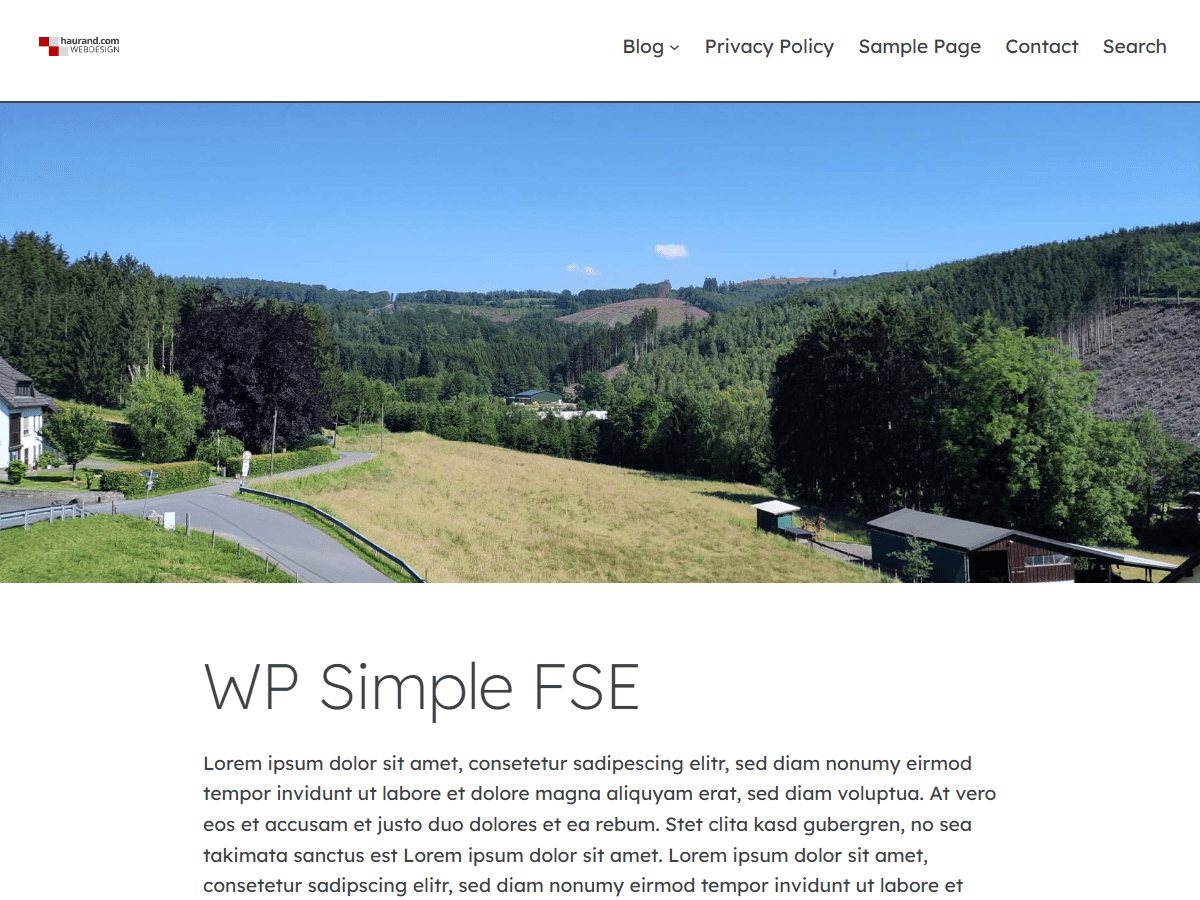
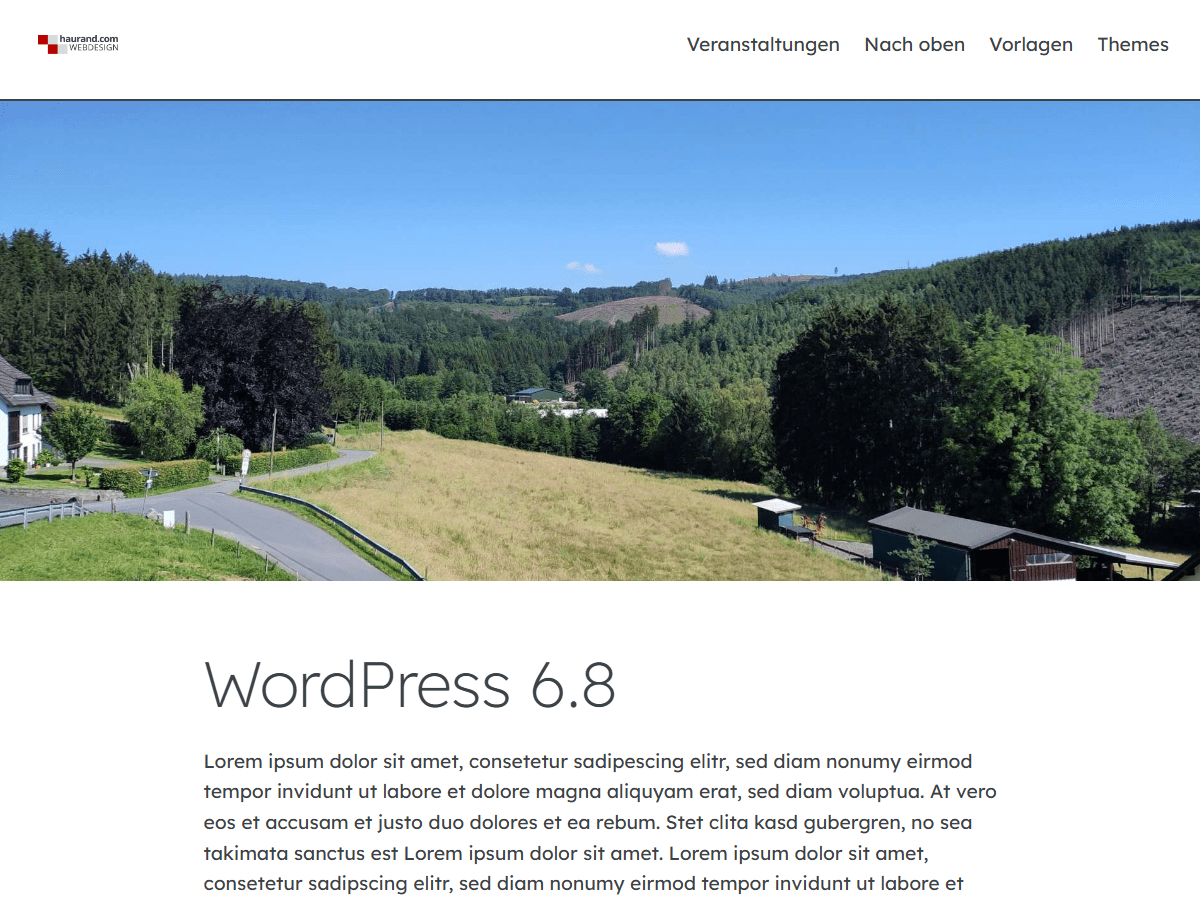
new patterns, added style black, delete old patterns

diff --git a/wp-simple-fse/parts/footer.html b/wp-simple-fse/parts/footer.html
@@ -1,28 +1,28 @@
 <!-- wp:group {"style":{"spacing":{"padding":{"top":"var:preset|spacing|30","bottom":"var:preset|spacing|20"}},"border":{"top":{"width":"0px","style":"none"},"right":[],"bottom":{"width":"0px","style":"none"},"left":[]}},"backgroundColor":"base","layout":{"type":"constrained"}} -->
-<div class="wp-block-group has-base-background-color has-background" style="border-top-style:none;border-top-width:0px;border-bottom-style:none;border-bottom-width:0px;padding-top:var(--wp--preset--spacing--30);padding-bottom:var(--wp--preset--spacing--20)"><!-- wp:columns {"align":"full","style":{"spacing":{"padding":{"top":"var:preset|spacing|40","bottom":"var:preset|spacing|40"}}}} -->
-	<div class="wp-block-columns alignfull" style="padding-top:var(--wp--preset--spacing--40);padding-bottom:var(--wp--preset--spacing--40)"><!-- wp:column {"verticalAlignment":"center","width":"10%"} -->
-		<div class="wp-block-column is-vertically-aligned-center" style="flex-basis:10%"><!-- wp:site-logo {"width":80,"shouldSyncIcon":false,"style":{"layout":{"selfStretch":"fit","flexSize":null}}} /--></div>
-		<!-- /wp:column -->
-		
-		<!-- wp:column {"verticalAlignment":"center","width":"70%","style":{"spacing":{"padding":{"right":"var:preset|spacing|50","left":"var:preset|spacing|50"}}}} -->
-		<div class="wp-block-column is-vertically-aligned-center" style="padding-right:var(--wp--preset--spacing--50);padding-left:var(--wp--preset--spacing--50);flex-basis:70%"><!-- wp:group {"style":{"spacing":{"blockGap":"var:preset|spacing|10","padding":{"top":"var:preset|spacing|30","bottom":"var:preset|spacing|30"}},"border":{"top":{"width":"0px","style":"none"},"right":[],"bottom":{"width":"0px","style":"none"},"left":[]}},"layout":{"type":"flex","orientation":"vertical","verticalAlignment":"center","justifyContent":"stretch"}} -->
-			<div class="wp-block-group" style="border-top-style:none;border-top-width:0px;border-bottom-style:none;border-bottom-width:0px;padding-top:var(--wp--preset--spacing--30);padding-bottom:var(--wp--preset--spacing--30)"><!-- wp:navigation {"overlayMenu":"never","style":{"typography":{"fontStyle":"normal","fontWeight":"400"},"spacing":{"blockGap":"var:preset|spacing|50"}},"fontSize":"medium","layout":{"type":"flex","orientation":"horizontal","justifyContent":"center"}} -->
-				<!-- wp:navigation-link {"label":"Datenschutzerklärung","url":"#"} /-->
-				
-				<!-- wp:navigation-link {"label":"Allgemeine Geschäftsbedingungen","url":"#"} /-->
-				
-				<!-- wp:navigation-link {"label":"Kontaktiere uns","url":"#"} /-->
-			<!-- /wp:navigation --></div>
-		<!-- /wp:group --></div>
-		<!-- /wp:column -->
-		
-		<!-- wp:column {"verticalAlignment":"center","width":"20%"} -->
-		<div class="wp-block-column is-vertically-aligned-center" style="flex-basis:20%"><!-- wp:group {"style":{"spacing":{"blockGap":"var:preset|spacing|10","padding":{"top":"var:preset|spacing|30","bottom":"var:preset|spacing|30"}},"border":{"top":{"width":"0px","style":"none"},"right":[],"bottom":{"width":"0px","style":"none"},"left":[]}},"layout":{"type":"flex","orientation":"vertical"}} -->
-			<div class="wp-block-group" style="border-top-style:none;border-top-width:0px;border-bottom-style:none;border-bottom-width:0px;padding-top:var(--wp--preset--spacing--30);padding-bottom:var(--wp--preset--spacing--30)"><!-- wp:paragraph {"fontSize":"small"} -->
-				<p class="has-small-font-size">
+<div class="wp-block-group has-base-background-color has-background" style="border-top-style:none;border-top-width:0px;border-bottom-style:none;border-bottom-width:0px;padding-top:var(--wp--preset--spacing--30);padding-bottom:var(--wp--preset--spacing--20)"><!-- wp:columns {"align":"full","style":{"spacing":{"padding":{"top":"var:preset|spacing|40","bottom":"var:preset|spacing|40","left":"var:preset|spacing|40","right":"var:preset|spacing|40"}}}} -->
+<div class="wp-block-columns alignfull" style="padding-top:var(--wp--preset--spacing--40);padding-right:var(--wp--preset--spacing--40);padding-bottom:var(--wp--preset--spacing--40);padding-left:var(--wp--preset--spacing--40)"><!-- wp:column {"verticalAlignment":"center","width":"10%"} -->
+<div class="wp-block-column is-vertically-aligned-center" style="flex-basis:10%"><!-- wp:site-logo {"width":80,"shouldSyncIcon":false,"style":{"layout":{"selfStretch":"fit","flexSize":null}}} /--></div>
+<!-- /wp:column -->
+
+<!-- wp:column {"verticalAlignment":"center","width":"70%","style":{"spacing":{"padding":{"right":"var:preset|spacing|50","left":"var:preset|spacing|50"}}}} -->
+<div class="wp-block-column is-vertically-aligned-center" style="padding-right:var(--wp--preset--spacing--50);padding-left:var(--wp--preset--spacing--50);flex-basis:70%"><!-- wp:group {"style":{"spacing":{"blockGap":"var:preset|spacing|10","padding":{"top":"var:preset|spacing|30","bottom":"var:preset|spacing|30"}},"border":{"top":{"width":"0px","style":"none"},"right":[],"bottom":{"width":"0px","style":"none"},"left":[]}},"layout":{"type":"flex","orientation":"vertical","verticalAlignment":"center","justifyContent":"stretch"}} -->
+<div class="wp-block-group" style="border-top-style:none;border-top-width:0px;border-bottom-style:none;border-bottom-width:0px;padding-top:var(--wp--preset--spacing--30);padding-bottom:var(--wp--preset--spacing--30)"><!-- wp:navigation {"overlayMenu":"never","style":{"typography":{"fontStyle":"normal","fontWeight":"400"},"spacing":{"blockGap":"var:preset|spacing|50"}},"fontSize":"medium","layout":{"type":"flex","orientation":"horizontal","justifyContent":"center"}} -->
+<!-- wp:navigation-link {"label":"Datenschutzerklärung","url":"#"} /-->
+
+<!-- wp:navigation-link {"label":"Allgemeine Geschäftsbedingungen","url":"#"} /-->
+
+<!-- wp:navigation-link {"label":"Kontaktiere uns","url":"#"} /-->
+<!-- /wp:navigation --></div>
+<!-- /wp:group --></div>
+<!-- /wp:column -->
+
+<!-- wp:column {"verticalAlignment":"center","width":"20%"} -->
+<div class="wp-block-column is-vertically-aligned-center" style="flex-basis:20%"><!-- wp:group {"style":{"spacing":{"blockGap":"var:preset|spacing|10","padding":{"top":"var:preset|spacing|30","bottom":"var:preset|spacing|30"}},"border":{"top":{"width":"0px","style":"none"},"right":[],"bottom":{"width":"0px","style":"none"},"left":[]}},"layout":{"type":"flex","orientation":"vertical"}} -->
+<div class="wp-block-group" style="border-top-style:none;border-top-width:0px;border-bottom-style:none;border-bottom-width:0px;padding-top:var(--wp--preset--spacing--30);padding-bottom:var(--wp--preset--spacing--30)"><!-- wp:paragraph {"fontSize":"small"} -->
+<p class="has-small-font-size">
 				Gestaltet mit <a href="https://de.wordpress.org" rel="nofollow">WordPress</a>		</p>
-			<!-- /wp:paragraph --></div>
-		<!-- /wp:group --></div>
-	<!-- /wp:column --></div>
+<!-- /wp:paragraph --></div>
+<!-- /wp:group --></div>
+<!-- /wp:column --></div>
 <!-- /wp:columns --></div>
 <!-- /wp:group -->

diff --git a/wp-simple-fse/parts/header.html b/wp-simple-fse/parts/header.html
@@ -1,7 +1,7 @@
-<!-- wp:group {"backgroundColor":"base","layout":{"type":"constrained"}} -->
-<div class="wp-block-group has-base-background-color has-background"><!-- wp:group {"align":"full","style":{"spacing":{"padding":{"top":"var:preset|spacing|40","bottom":"var:preset|spacing|40","left":"var:preset|spacing|70","right":"var:preset|spacing|70"},"margin":{"top":"var:preset|spacing|40","bottom":"var:preset|spacing|40"}}},"backgroundColor":"base","layout":{"type":"flex","flexWrap":"nowrap","justifyContent":"space-between"}} -->
-<div class="wp-block-group alignfull has-base-background-color has-background" style="margin-top:var(--wp--preset--spacing--40);margin-bottom:var(--wp--preset--spacing--40);padding-top:var(--wp--preset--spacing--40);padding-right:var(--wp--preset--spacing--70);padding-bottom:var(--wp--preset--spacing--40);padding-left:var(--wp--preset--spacing--70)"><!-- wp:site-logo {"width":80,"shouldSyncIcon":false} /-->
+<!-- wp:group {"style":{"border":{"bottom":{"width":"1px"}},"spacing":{"padding":{"bottom":"var:preset|spacing|40","top":"0"},"margin":{"top":"0","bottom":"0"}}},"backgroundColor":"base","layout":{"type":"constrained"}} -->
+<div class="wp-block-group has-base-background-color has-background" style="border-bottom-width:1px;margin-top:0;margin-bottom:0;padding-top:0;padding-bottom:var(--wp--preset--spacing--40)"><!-- wp:group {"align":"full","style":{"spacing":{"padding":{"top":"var:preset|spacing|30","bottom":"0","left":"var:preset|spacing|70","right":"var:preset|spacing|70"},"margin":{"top":"var:preset|spacing|40","bottom":"var:preset|spacing|40"}}},"backgroundColor":"base","layout":{"type":"flex","flexWrap":"nowrap","justifyContent":"space-between"}} -->
+<div class="wp-block-group alignfull has-base-background-color has-background" style="margin-top:var(--wp--preset--spacing--40);margin-bottom:var(--wp--preset--spacing--40);padding-top:var(--wp--preset--spacing--30);padding-right:var(--wp--preset--spacing--70);padding-bottom:0;padding-left:var(--wp--preset--spacing--70)"><!-- wp:site-logo {"width":80,"shouldSyncIcon":false} /-->
 
-<!-- wp:navigation {"icon":"menu","templateLock":false,"style":{"layout":{"selfStretch":"fit","flexSize":null},"typography":{"lineHeight":"1.5"}},"layout":{"type":"flex","justifyContent":"left"}} /--></div>
+<!-- wp:navigation {"ref":4,"icon":"menu","templateLock":false,"className":"custom-mobile-menu","style":{"layout":{"selfStretch":"fit","flexSize":null},"typography":{"lineHeight":"1.5"}},"layout":{"type":"flex","justifyContent":"left"}} /--></div>
 <!-- /wp:group --></div>
 <!-- /wp:group -->

diff --git a/wp-simple-fse/templates/single.html b/wp-simple-fse/templates/single.html
@@ -1,16 +1,14 @@
 <!-- wp:template-part {"slug":"header","area":"header"} /-->
 
-<!-- wp:separator {"className":"is-style-default"} -->
-<hr class="wp-block-separator has-alpha-channel-opacity is-style-default"/>
-<!-- /wp:separator -->
-
 <!-- wp:group {"tagName":"main","style":{"spacing":{"padding":{"top":"0","bottom":"0"},"margin":{"top":"0","bottom":"0"}}},"layout":{"type":"constrained"}} -->
 <main class="wp-block-group" style="margin-top:0;margin-bottom:0;padding-top:0;padding-bottom:0"><!-- wp:group {"align":"full","layout":{"type":"constrained"}} -->
-<div class="wp-block-group alignfull"><!-- wp:post-featured-image {"height":"25em","align":"full"} /-->
+<div class="wp-block-group alignfull"><!-- wp:group {"align":"full","style":{"spacing":{"padding":{"right":"var:preset|spacing|30","left":"var:preset|spacing|30","top":"var:preset|spacing|50","bottom":"var:preset|spacing|50"}},"dimensions":{"minHeight":"100vh"}},"layout":{"type":"constrained"}} -->
+<div class="wp-block-group alignfull" style="min-height:100vh;padding-top:var(--wp--preset--spacing--50);padding-right:var(--wp--preset--spacing--30);padding-bottom:var(--wp--preset--spacing--50);padding-left:var(--wp--preset--spacing--30)"><!-- wp:post-featured-image {"height":"25em","align":"full"} /-->
 
 <!-- wp:post-title {"level":1,"style":{"spacing":{"padding":{"top":"1em"},"margin":{"top":"1em"}}}} /-->
 
 <!-- wp:post-content /--></div>
+<!-- /wp:group --></div>
 <!-- /wp:group -->
 
 <!-- wp:group {"tagName":"main","style":{"spacing":{"margin":{"top":"0"},"padding":{"top":"0","bottom":"0","left":"var:preset|spacing|10","right":"var:preset|spacing|10"}}},"layout":{"type":"constrained","contentSize":""}} -->

diff --git a/wp-simple-fse/templates/single-post-wide-width.html b/wp-simple-fse/templates/single-post-wide-width.html
@@ -1,9 +1,5 @@
 <!-- wp:template-part {"slug":"header","area":"header"} /-->
 
-<!-- wp:separator {"className":"is-style-default"} -->
-<hr class="wp-block-separator has-alpha-channel-opacity is-style-default"/>
-<!-- /wp:separator -->
-
 <!-- wp:group {"tagName":"main","style":{"spacing":{"padding":{"top":"0","bottom":"0"},"margin":{"top":"0","bottom":"0"}}},"layout":{"type":"constrained"}} -->
 <main class="wp-block-group" style="margin-top:0;margin-bottom:0;padding-top:0;padding-bottom:0"><!-- wp:group {"align":"full","layout":{"type":"constrained"}} -->
 <div class="wp-block-group alignfull"><!-- wp:group {"align":"full","style":{"spacing":{"padding":{"right":"var:preset|spacing|30","left":"var:preset|spacing|30","top":"0","bottom":"0"}},"dimensions":{"minHeight":"100vh"}},"layout":{"type":"constrained"}} -->

diff --git a/wp-simple-fse/templates/page.html b/wp-simple-fse/templates/page.html
@@ -1,9 +1,5 @@
 <!-- wp:template-part {"slug":"header","area":"header"} /-->
 
-<!-- wp:separator {"className":"is-style-default"} -->
-<hr class="wp-block-separator has-alpha-channel-opacity is-style-default"/>
-<!-- /wp:separator -->
-
 <!-- wp:group {"tagName":"main","style":{"spacing":{"padding":{"top":"0","bottom":"0"},"margin":{"top":"0","bottom":"0"}}},"layout":{"type":"constrained"}} -->
 <main class="wp-block-group" style="margin-top:0;margin-bottom:0;padding-top:0;padding-bottom:0"><!-- wp:post-featured-image {"height":"25em","align":"full"} /-->
 

diff --git a/wp-simple-fse/patterns/text-right-and-image-left.php b/wp-simple-fse/patterns/text-right-and-image-left.php
@@ -1,0 +1,39 @@
+<?php
+	/**
+		* Title: Text right and Image left
+		* Slug: wp-simple-fse/text-right-and-image-left
+		* Categories: wp-simple-fse, call-to-action, banner
+	*/
+?>
+
+<!-- wp:group {"className":"alignfull is-style-section-default has-base-color has-base-2-background-color has-text-color has-background has-link-color"} -->
+<div class="wp-block-group alignfull is-style-section-default has-base-color has-base-2-background-color has-text-color has-background has-link-color"><!-- wp:columns {"align":"full","style":{"spacing":{"padding":{"right":"0","left":"0","top":"0","bottom":"0"},"margin":{"top":"0","bottom":"0"},"blockGap":{"top":"0","left":"0"}}},"backgroundColor":"custom-italy"} -->
+	<div class="wp-block-columns alignfull has-custom-italy-background-color has-background" style="margin-top:0;margin-bottom:0;padding-top:0;padding-right:0;padding-bottom:0;padding-left:0"><!-- wp:column {"width":"66.66%","style":{"spacing":{"padding":{"right":"0","left":"0"},"blockGap":"0"}}} -->
+		<div class="wp-block-column" style="padding-right:0;padding-left:0;flex-basis:66.66%"><!-- wp:cover {"url":"<?php echo esc_url( get_stylesheet_directory_uri() ); ?>/assets/images/attendorn_marktplatz_2022.jpg","id":357,"dimRatio":10,"customOverlayColor":"#7a8392","isUserOverlayColor":false,"minHeight":40,"minHeightUnit":"em","isDark":false,"sizeSlug":"full"} -->
+			<div class="wp-block-cover is-light" style="min-height:40em"><img class="wp-block-cover__image-background wp-image-357 size-full" alt="" src="<?php echo esc_url( get_template_directory_uri() ); ?>/assets/images/attendorn_marktplatz_2022.jpg" data-object-fit="cover"/><span aria-hidden="true" class="wp-block-cover__background has-background-dim-10 has-background-dim" style="background-color:#7a8392"></span><div class="wp-block-cover__inner-container"><!-- wp:paragraph {"align":"center","fontSize":"large"} -->
+				<p class="has-text-align-center has-large-font-size"></p>
+			<!-- /wp:paragraph --></div></div>
+		<!-- /wp:cover --></div>
+		<!-- /wp:column -->
+		
+		<!-- wp:column {"width":"33.33%"} -->
+		<div class="wp-block-column" style="flex-basis:33.33%"><!-- wp:cover {"overlayColor":"base-2","isUserOverlayColor":true,"minHeight":40,"minHeightUnit":"em","style":{"spacing":{"padding":{"right":"var:preset|spacing|10","left":"var:preset|spacing|10","top":"var:preset|spacing|20","bottom":"var:preset|spacing|20"},"margin":{"top":"0","bottom":"0"},"blockGap":"var:preset|spacing|10"}},"layout":{"type":"constrained"}} -->
+			<div class="wp-block-cover" style="margin-top:0;margin-bottom:0;padding-top:var(--wp--preset--spacing--20);padding-right:var(--wp--preset--spacing--10);padding-bottom:var(--wp--preset--spacing--20);padding-left:var(--wp--preset--spacing--10);min-height:40em"><span aria-hidden="true" class="wp-block-cover__background has-base-2-background-color has-background-dim-100 has-background-dim"></span><div class="wp-block-cover__inner-container"><!-- wp:group {"layout":{"type":"constrained"}} -->
+				<div class="wp-block-group"><!-- wp:heading {"textAlign":"center"} -->
+					<h2 class="wp-block-heading has-text-align-center">Great Town</h2>
+					<!-- /wp:heading -->
+					
+					<!-- wp:paragraph {"align":"center","placeholder":"Schreibe einen Titel…","fontSize":"medium"} -->
+					<p class="has-text-align-center has-medium-font-size">Experience a beautiful city in Germany</p>
+					<!-- /wp:paragraph -->
+					
+					<!-- wp:group {"layout":{"type":"constrained"}} -->
+					<div class="wp-block-group"><!-- wp:paragraph {"align":"center","className":"haurand-button-blau is-style-default"} -->
+						<p class="has-text-align-center haurand-button-blau is-style-default"><a href="https://haurand.com">Klick here</a></p>
+					<!-- /wp:paragraph --></div>
+				<!-- /wp:group --></div>
+			<!-- /wp:group --></div></div>
+		<!-- /wp:cover --></div>
+	<!-- /wp:column --></div>
+<!-- /wp:columns --></div>
+<!-- /wp:group -->

diff --git a/wp-simple-fse/patterns/text-left-and-images-right.php b/wp-simple-fse/patterns/text-left-and-images-right.php
@@ -1,0 +1,39 @@
+<?php
+	/**
+		* Title: Text left and Images right
+		* Slug: wp-simple-fse/text-left-and-images-right
+		* Categories: wp-simple-fse, call-to-action, banner
+	*/
+?>
+
+<!-- wp:group {"className":"alignfull is-style-section-default has-base-color has-base-2-background-color has-text-color has-background has-link-color"} -->
+<div class="wp-block-group alignfull is-style-section-default has-base-color has-base-2-background-color has-text-color has-background has-link-color"><!-- wp:columns {"align":"wide"} -->
+	<div class="wp-block-columns alignwide"><!-- wp:column -->
+		<div class="wp-block-column"><!-- wp:heading {"style":{"elements":{"link":{"color":{"text":"var:preset|color|custom-weiss"}}}},"textColor":"custom-weiss","fontSize":"x-large"} -->
+			<h2 class="wp-block-heading has-custom-weiss-color has-text-color has-link-color has-x-large-font-size">Great landscape</h2>
+			<!-- /wp:heading -->
+			
+			<!-- wp:paragraph -->
+			<p>Lorem ipsum dolor sit amet, consetetur sadipscing elitr, sed diam nonumy eirmod tempor invidunt ut labore et dolore magna aliquyam erat, sed diam voluptua. At vero eos et accusam et justo duo dolores et ea rebum. Stet clita kasd gubergren, no sea takimata sanctus est Lorem ipsum dolor sit amet. Lorem ipsum dolor sit amet, consetetur sadipscing elitr, sed diam nonumy eirmod tempor invidunt ut labore et dolore magna aliquyam erat, sed diam voluptua. At vero eos et accusam et justo duo dolores et ea rebum. Stet clita kasd gubergren, no sea takimata sanctus est Lorem ipsum dolor sit amet.</p>
+			<!-- /wp:paragraph -->
+			
+			<!-- wp:spacer {"height":"var:preset|spacing|40"} -->
+			<div style="height:var(--wp--preset--spacing--40)" aria-hidden="true" class="wp-block-spacer"></div>
+			<!-- /wp:spacer -->
+			
+			<!-- wp:image {"lightbox":{"enabled":true},"id":362,"aspectRatio":"1","scale":"cover","sizeSlug":"full","linkDestination":"none"} -->
+			<figure class="wp-block-image size-full"><img src="<?php echo esc_url( get_template_directory_uri() ); ?>/assets/images/power_tour_06_2024_04.jpg" alt="" class="wp-image-362" style="aspect-ratio:1;object-fit:cover"/></figure>
+		<!-- /wp:image --></div>
+		<!-- /wp:column -->
+		
+		<!-- wp:column {"style":{"spacing":{"blockGap":"var:preset|spacing|40"}}} -->
+		<div class="wp-block-column"><!-- wp:image {"lightbox":{"enabled":true},"id":358,"aspectRatio":"4/3","scale":"cover","sizeSlug":"full","linkDestination":"none"} -->
+			<figure class="wp-block-image size-full"><img src="<?php echo esc_url( get_template_directory_uri() ); ?>/assets/images/power_tour_06_2024_17.jpg" alt="" class="wp-image-358" style="aspect-ratio:4/3;object-fit:cover"/></figure>
+			<!-- /wp:image -->
+			
+			<!-- wp:image {"lightbox":{"enabled":true},"id":356,"aspectRatio":"4/3","scale":"cover","sizeSlug":"full","linkDestination":"none"} -->
+			<figure class="wp-block-image size-full"><img src="<?php echo esc_url( get_template_directory_uri() ); ?>/assets/images/power_tour_06_2024_02.webp" alt="" class="wp-image-356" style="aspect-ratio:4/3;object-fit:cover"/></figure>
+		<!-- /wp:image --></div>
+	<!-- /wp:column --></div>
+<!-- /wp:columns --></div>
+<!-- /wp:group -->

diff --git a/wp-simple-fse/patterns/text-left-and-image-right.php b/wp-simple-fse/patterns/text-left-and-image-right.php
@@ -1,0 +1,32 @@
+<?php
+	/**
+		* Title: Text left and Image right
+		* Slug: wp-simple-fse/text-left-and-image-right
+		* Categories: wp-simple-fse, call-to-action, banner
+	*/
+?>
+<!-- wp:group {"className":"alignfull is-style-section-default has-custom-weiss-color has-custom-rostrot-background-color has-text-color has-background has-link-color"} -->
+<div class="wp-block-group alignfull is-style-section-default has-custom-weiss-color has-custom-rostrot-background-color has-text-color has-background has-link-color"><!-- wp:columns {"verticalAlignment":"center","align":"wide","style":{"elements":{"link":{"color":{"text":"var:preset|color|base"}}}},"backgroundColor":"base-2","textColor":"base"} -->
+	<div class="wp-block-columns alignwide are-vertically-aligned-center has-base-color has-base-2-background-color has-text-color has-background has-link-color"><!-- wp:column {"verticalAlignment":"center","width":"50%","layout":{"type":"default"}} -->
+		<div class="wp-block-column is-vertically-aligned-center" style="flex-basis:50%"><!-- wp:heading {"level":1,"style":{"elements":{"link":{"color":{"text":"var:preset|color|custom-weiss"}}}},"textColor":"custom-weiss","fontSize":"xx-large"} -->
+			<h1 class="wp-block-heading has-custom-weiss-color has-text-color has-link-color has-xx-large-font-size">Welcome in this great town</h1>
+			<!-- /wp:heading -->
+			
+			<!-- wp:paragraph -->
+			<p>Lorem ipsum dolor sit amet, consetetur sadipscing elitr, sed diam nonumy eirmod tempor invidunt ut labore et dolore magna aliquyam erat, sed diam voluptua. At vero eos et accusam et justo duo dolores et ea rebum. Stet clita kasd gubergren, no sea takimata sanctus est Lorem ipsum dolor sit amet. Lorem ipsum dolor sit amet, consetetur sadipscing elitr, sed diam nonumy eirmod tempor invidunt ut labore et dolore magna aliquyam erat, sed diam voluptua. At vero eos et accusam et justo duo dolores et ea rebum. Stet clita kasd gubergren, no sea takimata sanctus est Lorem ipsum dolor sit amet.</p>
+			<!-- /wp:paragraph -->
+			
+			<!-- wp:group {"layout":{"type":"constrained"}} -->
+			<div class="wp-block-group"><!-- wp:paragraph {"className":"haurand-button-blau"} -->
+				<p class="haurand-button-blau"><a href="https://haurand.com">Read More</a></p>
+			<!-- /wp:paragraph --></div>
+		<!-- /wp:group --></div>
+		<!-- /wp:column -->
+		
+		<!-- wp:column {"verticalAlignment":"center","width":"50%"} -->
+		<div class="wp-block-column is-vertically-aligned-center" style="flex-basis:50%"><!-- wp:image {"lightbox":{"enabled":true},"id":357,"aspectRatio":"1","scale":"cover","sizeSlug":"full","linkDestination":"none"} -->
+			<figure class="wp-block-image size-full"><img src="<?php echo esc_url( get_template_directory_uri() ); ?>/assets/images/attendorn_marktplatz_2022.jpg" alt="" class="wp-image-357" style="aspect-ratio:1;object-fit:cover"/></figure>
+		<!-- /wp:image --></div>
+	<!-- /wp:column --></div>
+<!-- /wp:columns --></div>
+<!-- /wp:group -->

diff --git a/wp-simple-fse/patterns/index.php b/wp-simple-fse/patterns/index.php
@@ -7,10 +7,6 @@
 ?>
 <!-- wp:template-part {"slug":"header","area":"header"} /-->
 
-<!-- wp:separator {"className":"is-style-default"} -->
-<hr class="wp-block-separator has-alpha-channel-opacity is-style-default"/>
-<!-- /wp:separator -->
-
 <!-- wp:group {"tagName":"main","style":{"spacing":{"margin":{"top":"0","bottom":"0"}}},"layout":{"type":"constrained"}} -->
 <main class="wp-block-group" style="margin-top:0;margin-bottom:0"><!-- wp:cover {"url":"<?php echo esc_url( get_template_directory_uri() ); ?>/assets/images/cats.webp","alt":"Cats","dimRatio":0,"isDark":false,"align":"full","style":{"color":[]}} -->
 <div class="wp-block-cover alignfull is-light"><img class="wp-block-cover__image-background " alt="<?php esc_attr_e('Cats', 'wp-simple-fse');?>" src="<?php echo esc_url( get_template_directory_uri() ); ?>/assets/images/cats.webp" data-object-fit="cover"/><span aria-hidden="true" class="wp-block-cover__background has-background-dim-0 has-background-dim"></span><div class="wp-block-cover__inner-container"><!-- wp:paragraph {"align":"center","fontSize":"large"} -->

diff --git a/wp-simple-fse/patterns/page-with-sidebar.php b/wp-simple-fse/patterns/page-with-sidebar.php
@@ -7,10 +7,6 @@
 ?>
 <!-- wp:template-part {"slug":"header","area":"header"} /-->
 
-<!-- wp:separator {"className":"is-style-default"} -->
-<hr class="wp-block-separator has-alpha-channel-opacity is-style-default"/>
-<!-- /wp:separator -->
-
 <!-- wp:group {"style":{"dimensions":{"minHeight":"100vh"}},"layout":{"type":"constrained"}} -->
 <div class="wp-block-group" style="min-height:100vh"><!-- wp:columns {"align":"full","style":{"spacing":{"blockGap":{"top":"1rem","left":"1rem"},"padding":{"top":"var:preset|spacing|50"},"margin":{"bottom":"var:preset|spacing|40"}}}} -->
 <div class="wp-block-columns alignfull" style="margin-bottom:var(--wp--preset--spacing--40);padding-top:var(--wp--preset--spacing--50)"><!-- wp:column {"width":"10%"} -->

diff --git a/wp-simple-fse/patterns/single-post-with-sidebar.php b/wp-simple-fse/patterns/single-post-with-sidebar.php
@@ -7,10 +7,6 @@
 ?>
 <!-- wp:template-part {"slug":"header","area":"header"} /-->
 
-<!-- wp:separator {"className":"is-style-default"} -->
-<hr class="wp-block-separator has-alpha-channel-opacity is-style-default"/>
-<!-- /wp:separator -->
-
 <!-- wp:group {"style":{"dimensions":{"minHeight":"100vh"}},"layout":{"type":"constrained"}} -->
 <div class="wp-block-group" style="min-height:100vh"><!-- wp:columns {"align":"full","style":{"spacing":{"blockGap":{"top":"1rem","left":"1rem"},"padding":{"top":"var:preset|spacing|50"},"margin":{"bottom":"var:preset|spacing|40"}}}} -->
 <div class="wp-block-columns alignfull" style="margin-bottom:var(--wp--preset--spacing--40);padding-top:var(--wp--preset--spacing--50)"><!-- wp:column {"width":"10%"} -->

diff --git a/wp-simple-fse/patterns/search.php b/wp-simple-fse/patterns/search.php
@@ -7,10 +7,6 @@
 ?>
 <!-- wp:template-part {"slug":"header","area":"header"} /-->
 
-<!-- wp:separator {"className":"is-style-default"} -->
-<hr class="wp-block-separator has-alpha-channel-opacity is-style-default"/>
-<!-- /wp:separator -->
-
 <!-- wp:group {"tagName":"main","layout":{"type":"constrained"}} -->
 <main class="wp-block-group"><!-- wp:query-title {"type":"search","align":"wide","style":{"typography":{"lineHeight":"1"},"spacing":{"padding":{"top":"var:preset|spacing|50","bottom":"var:preset|spacing|10"}}}} /-->
 
